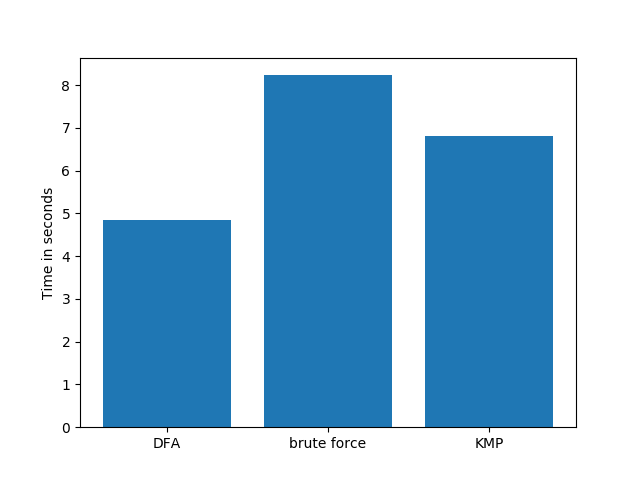
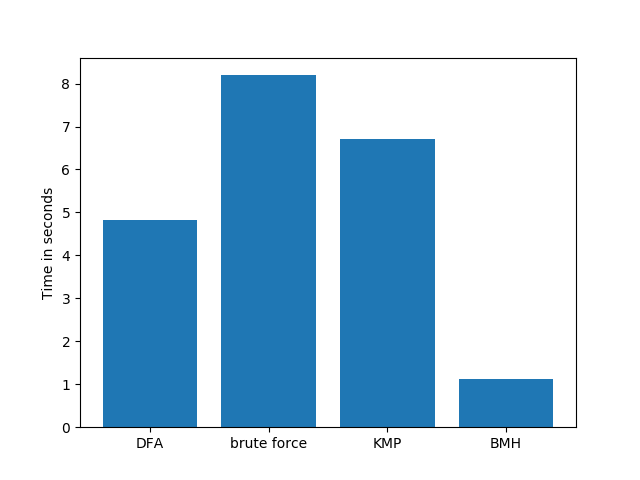
added Boyer–Moore–Horspool

diff --git a/performance_test.py b/performance_test.py
@@ -5,6 +5,7 @@ import matplotlib.pyplot as plt
 from brute_force import brute_force
 from DFA_match import DFA_match
 from KMP import KMP_search
+from BMH import BMH_search
 
 if __name__ == '__main__':
 
@@ -12,7 +13,7 @@ if __name__ == '__main__':
         txt = file.read()
     pattern = "ATTCGGGTGGCATCCTCCGGAGAGAGAGAGAGGAAGGAG"
 
-    lst_alg_for_plot = ["DFA", "brute force", "KMP"]
+    lst_alg_for_plot = ["DFA", "brute force", "KMP", "BMH"]
     lst_time_for_plot = []
 
     #DFA
@@ -35,6 +36,13 @@ if __name__ == '__main__':
     end_time = time.time()
     lst_time_for_plot.append(end_time-start_time)
     print(f"KMP done :{end_time - start_time}")
+
+    #BMH
+    start_time = time.time()
+    BMH_search(pattern, txt)
+    end_time = time.time()
+    lst_time_for_plot.append(end_time-start_time)
+    print(f"BMH done :{end_time - start_time}")
 
 
     plt.bar(lst_alg_for_plot, lst_time_for_plot)

diff --git a/BMH.py b/BMH.py
@@ -1,0 +1,32 @@
+def bad_match_table(pattern):
+    len_pattern = len(pattern)
+    bmt = [len_pattern] * 256
+
+    # length - index - 1
+    for i in range(len_pattern - 1):
+        bmt[ord(pattern[i])] = len_pattern - i - 1
+
+    return bmt
+
+
+def BMH_search(pattern, txt):
+    len_pattern = len(pattern)
+    len_txt = len(txt)
+
+    BMT = bad_match_table(pattern)
+
+    pos = len_pattern - 1
+    while pos < len_txt:
+        j = len_pattern - 1
+        i = pos
+        while j >= 0 and txt[i] == pattern[j]:
+            j -= 1
+            i -= 1
+        if j == -1:
+            print(f"Found pattern at index {i + 1}")
+        pos += BMT[ord(txt[pos])]
+    return -1
+
+
+if __name__ == '__main__':
+    BMH_search(str("ahoooOj").lower(), str("sdSD2da ahooooj dsda hahoooooojahah ++ahooooj").lower())
